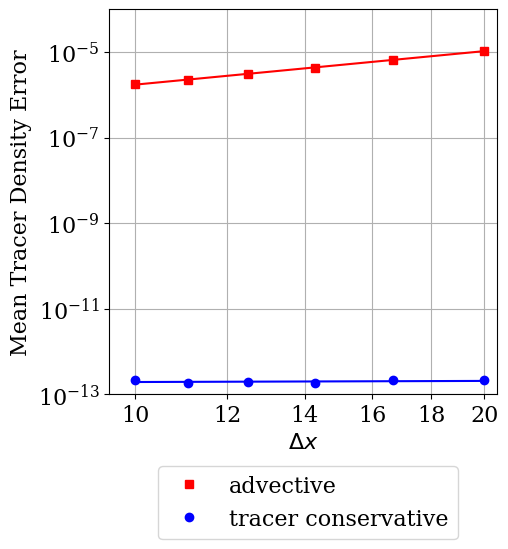
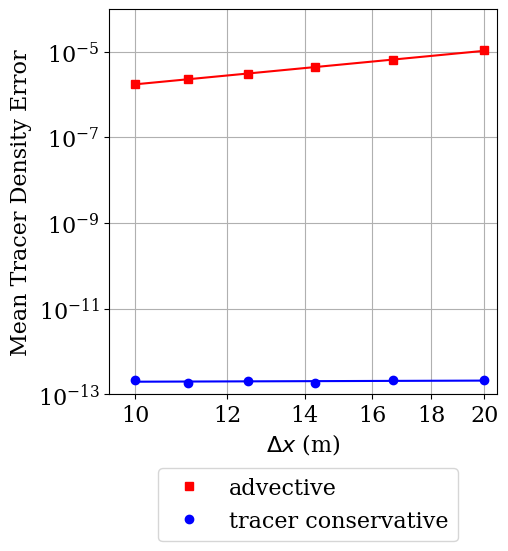
NL slice updates

diff --git a/paper_test_suite/NL_slice/plot_NL_slice_fields.py b/paper_test_suite/NL_slice/plot_NL_slice_fields.py
@@ -1,0 +1,162 @@
+
+"""
+Plots the vertical slice Nair-Lauritzen test case, in the convergence
+configuration.
+
+This plots:
+(a) rho @ t = 0 s, (b) rho @ t = 1000 s, (c) rho @ t = 2000 s
+(d) m_X @ t = 0 s, (e) m_X @ t = 1000 s, (f) rho @ t = 2000 s
+
+Based from the script in the gusto_case_studies repository.
+
+"""
+from os.path import abspath, dirname
+import matplotlib.pyplot as plt
+import numpy as np
+from netCDF4 import Dataset
+from tomplot import (
+    set_tomplot_style, tomplot_cmap, plot_contoured_field,
+    add_colorbar_fig, plot_field_quivers, tomplot_field_title,
+    extract_gusto_coords, extract_gusto_field,
+    regrid_horizontal_slice
+)
+
+transport_type = 'conservative'
+order = 1
+configuration = 'convergence'
+dxz = 100
+
+test = f'NL_slice_Tdsolve_{transport_type}_order_{order}_{configuration}_dxz_{dxz}'
+
+# ---------------------------------------------------------------------------- #
+# Directory for results and plots
+# ---------------------------------------------------------------------------- #
+# When copying this example these paths need editing, which will usually involve
+# removing the abspath part to set directory paths relative to this file
+results_file_name = f'results/{test}/field_output.nc'
+plot_stem = f'figures/{transport_type}_order_{order}_{configuration}_dxz_{dxz}_fields'
+
+# ---------------------------------------------------------------------------- #
+# Plot details
+# ---------------------------------------------------------------------------- #
+field_names = ['rho_d', 'rho_d', 'rho_d',
+               'm_X', 'm_X', 'm_X']
+time_idxs = [0, 'midpoint', -1,
+             0, 'midpoint', -1]
+cbars = [False, False, True,
+         False, False, True]
+
+# ---------------------------------------------------------------------------- #
+# General options
+# ---------------------------------------------------------------------------- #
+if configuration == 'convergence':
+    rho_contours = np.linspace(0.0, 4.0, 19)
+    m_contours = np.linspace(0.01999, 0.07001, 11)
+else:
+    rho_contours = np.linspace(0.0, 1.8, 19)
+    m_contours = np.linspace(0.01999, 0.02001, 11)
+
+rho_colour_scheme = 'gist_earth_r'
+rho_field_label = r'$\rho_d$ (kg m$^{-3}$)'
+m_colour_scheme = 'RdBu_r'
+m_field_label = r'$m_X$ (kg kg$^{-1}$)'
+contour_method = 'tricontour'
+xlims = [0., 2.]
+ylims = [0., 2.]
+
+# Things that are likely the same for all plots --------------------------------
+set_tomplot_style()
+data_file = Dataset(results_file_name, 'r')
+
+# ---------------------------------------------------------------------------- #
+# PLOTTING
+# ---------------------------------------------------------------------------- #
+fig, axarray = plt.subplots(2, 3, figsize=(20, 12), sharex='all', sharey='all')
+time_idx = 0
+
+for i, (ax, time_idx, field_name, cbar) in \
+        enumerate(zip(axarray.flatten(), time_idxs, field_names, cbars)):
+
+    if time_idx == 'midpoint':
+        time_idx = int((len(data_file['time'][:]) - 1) / 2)
+
+    # Data extraction ----------------------------------------------------------
+    field_data = extract_gusto_field(data_file, field_name, time_idx=time_idx)
+    coords_X, coords_Y = extract_gusto_coords(data_file, field_name)
+    time = data_file['time'][time_idx]
+
+    # Select options for each field --------------------------------------------
+    if field_name == 'rho_d':
+        contours = rho_contours
+        colour_scheme = rho_colour_scheme
+        field_label = rho_field_label
+        cmap, lines = tomplot_cmap(contours, colour_scheme, remove_contour=None)
+        cbar_labelpad = -10
+        data_format = '.2f'
+
+    elif field_name == 'm_X':
+        contours = m_contours
+        colour_scheme = m_colour_scheme
+        field_label = m_field_label
+        cmap, lines = tomplot_cmap(contours, colour_scheme, remove_contour=None)
+        cbar_labelpad = -45
+        data_format = '.3e'
+
+    # Plot data ----------------------------------------------------------------
+    cf, _ = plot_contoured_field(
+        ax, coords_X, coords_Y, field_data, contour_method, contours,
+        cmap=cmap, line_contours=lines
+    )
+
+    if cbar:
+        add_colorbar_fig(
+            fig, cf, field_label, ax_idxs=[i], location='right',
+            cbar_labelpad=cbar_labelpad, cbar_format=data_format
+        )
+    tomplot_field_title(
+        ax, f't = {time:.1f} s', minmax=True, minmax_format=data_format,
+        field_data=field_data
+    )
+
+    # Add quivers --------------------------------------------------------------
+    if field_name == 'rho_d':
+        # Need to re-grid to lat-lon grid to get sensible looking quivers
+        u_x_data = extract_gusto_field(data_file, 'u_x', time_idx=time_idx)
+        u_z_data = extract_gusto_field(data_file, 'u_z', time_idx=time_idx)
+        coords_X, coords_Y = extract_gusto_coords(data_file, 'u_x')
+
+        x_1d = np.linspace(0.0, 2.0, 61)
+        z_1d = np.linspace(0.0, 2.0, 61)
+        x_2d, z_2d = np.meshgrid(x_1d, z_1d, indexing='ij')
+        regrid_u_x_data = regrid_horizontal_slice(
+            x_2d, z_2d, coords_X, coords_Y, u_x_data
+        )
+        regrid_u_z_data = regrid_horizontal_slice(
+            x_2d, z_2d, coords_X, coords_Y, u_z_data
+        )
+
+        plot_field_quivers(
+            ax, x_2d, z_2d, regrid_u_x_data, regrid_u_z_data,
+            spatial_filter_step=6, spatial_filter_offset=3,
+            magnitude_filter=0.01, scale=8.0
+        )
+
+    # Labels -------------------------------------------------------------------
+    if i in [0, 3]:
+        ax.set_ylabel(r'$z$ (km)', labelpad=-20)
+        ax.set_ylim(ylims)
+        ax.set_yticks(ylims)
+        ax.set_yticklabels(ylims)
+
+    if i in [3, 4, 5]:
+        ax.set_xlabel(r'$x$ (km)', labelpad=-10)
+        ax.set_xlim(xlims)
+        ax.set_xticks(xlims)
+        ax.set_xticklabels(xlims)
+
+# Save figure ------------------------------------------------------------------
+fig.subplots_adjust(wspace=0.25)
+plot_name = f'{plot_stem}.png'
+print(f'Saving figure to {plot_name}')
+fig.savefig(plot_name, bbox_inches='tight')
+plt.close()
